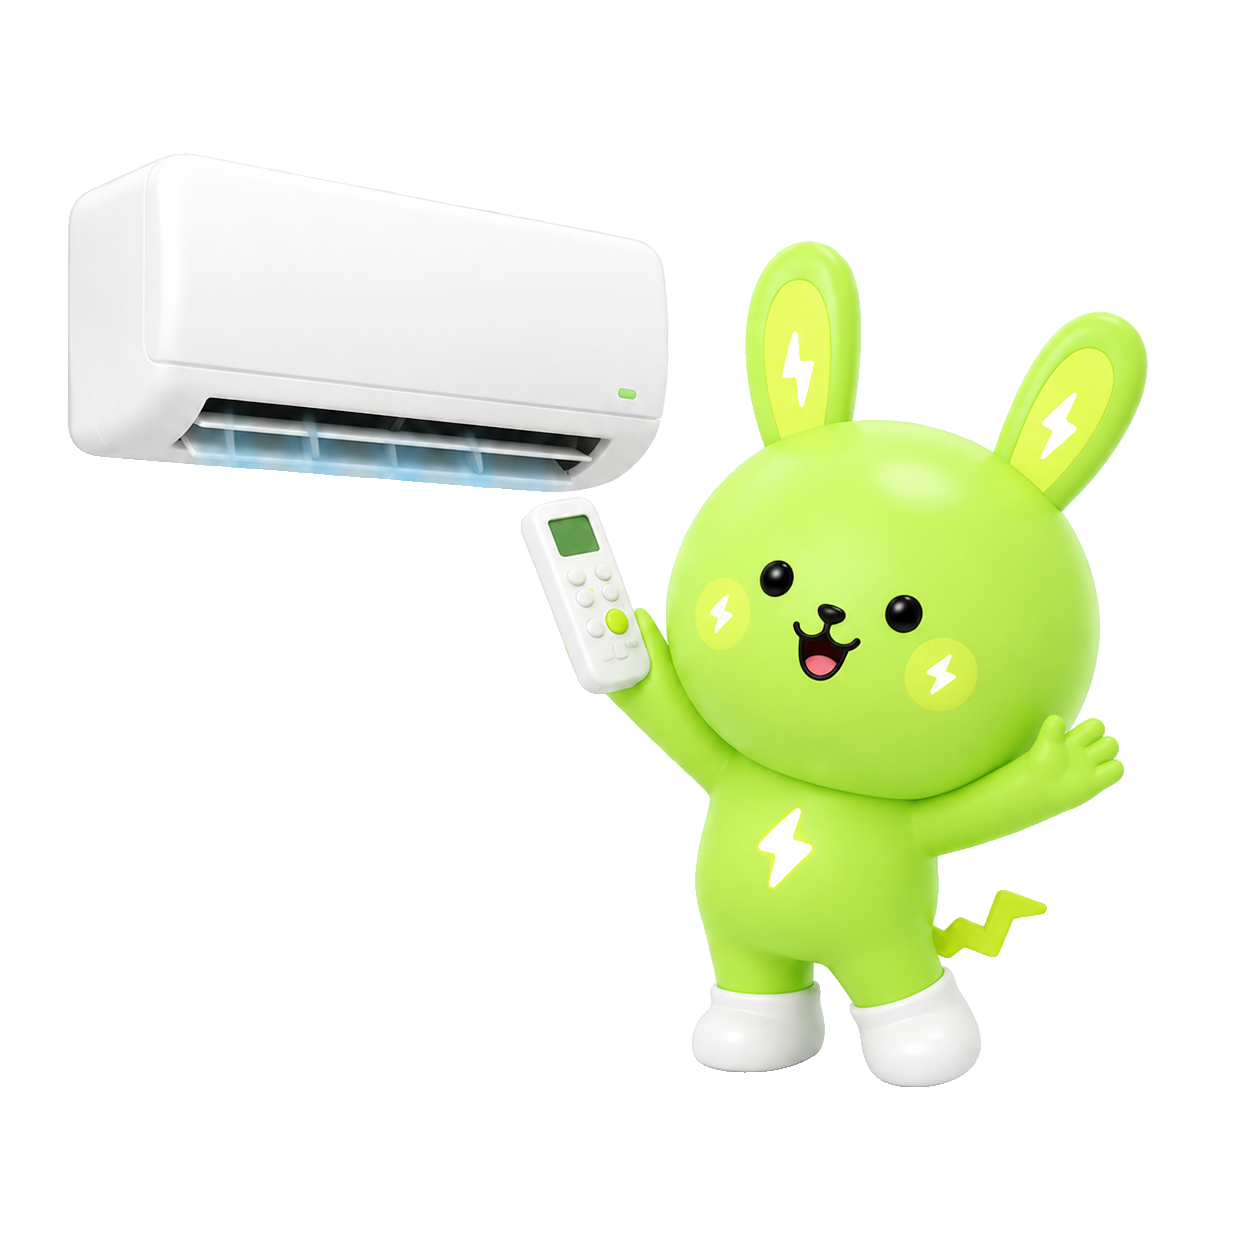
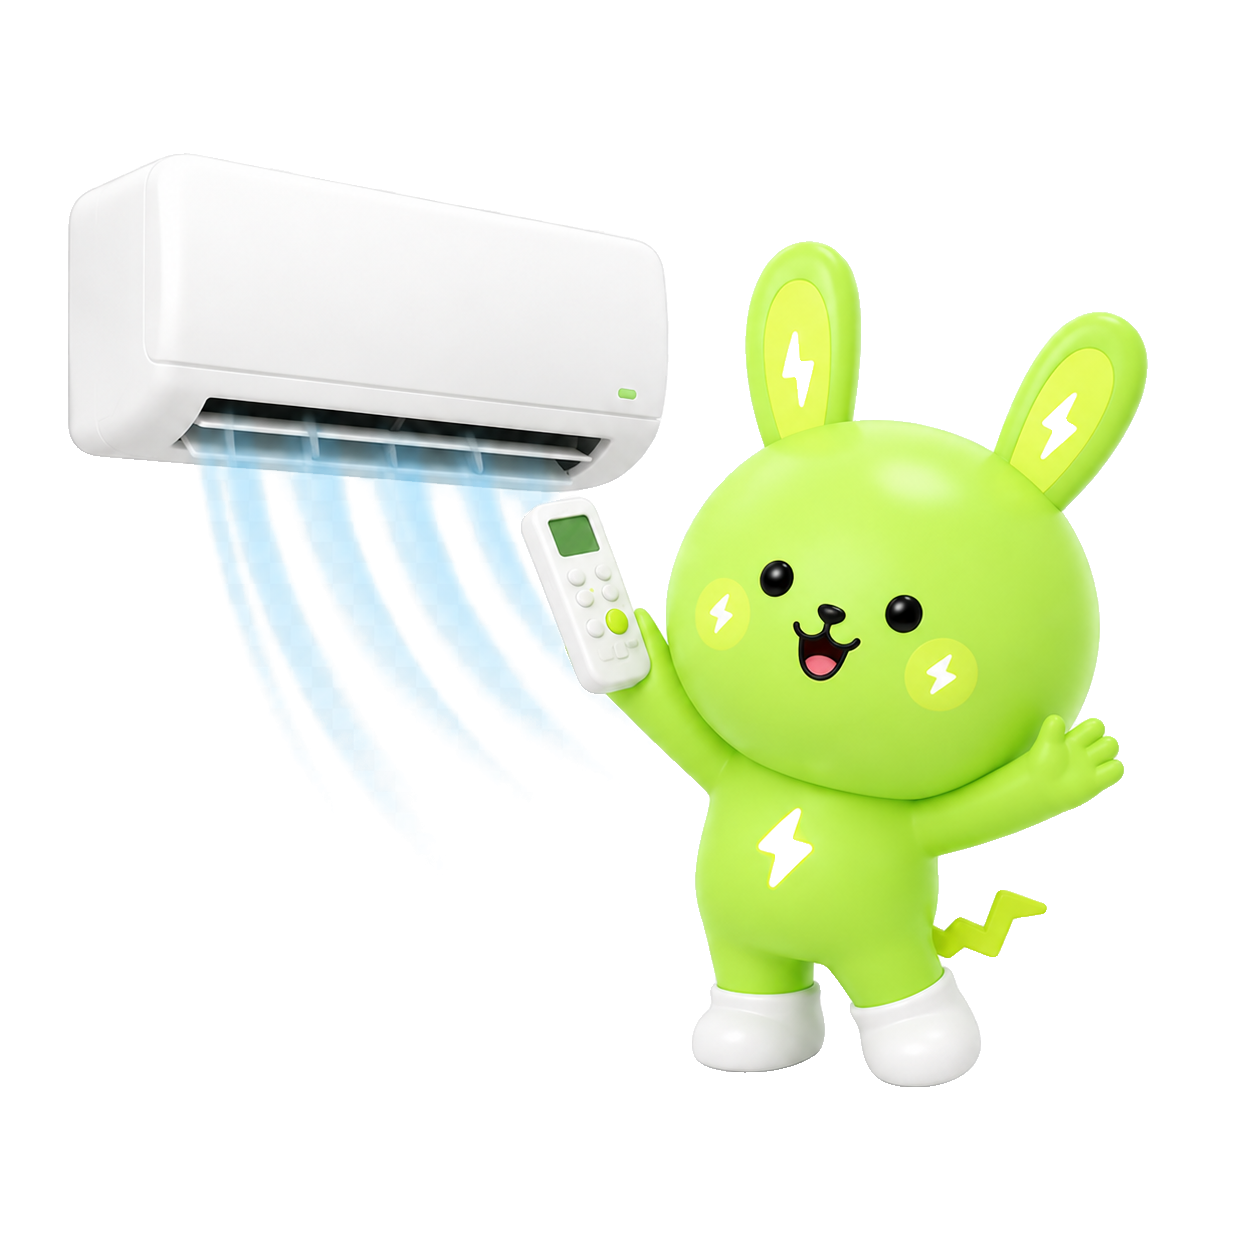
내 가전 카드: 에어컨 바람 복구 + 우측 회색 섹터 분리
- 누끼 때 지워진 파란 에어컨 바람을 원본에서 복구(char-1 제외 5장)
- 캐릭터 영역을 우측 회색 박스 섹터(#E4E7EA)로 분리해 정보 영역과 구분
  (파란 바람이 틸 배경에선 안 보여 회색으로 변경)

Changed region(s): [[0.1555, 0.3732, 0.4665, 0.5909], [0.3421, 0.5598, 0.3732, 0.5909]]

diff --git a/frontend/app/devices/page.tsx b/frontend/app/devices/page.tsx
@@ -91,14 +91,14 @@ export default function DevicesPage() {
                     className="relative block h-[188px] overflow-hidden rounded-[22px] shadow-[0_10px_24px_-10px_rgba(0,0,0,.16)_inset] active:scale-[.995] transition"
                     style={{ background: bg }}
                   >
-                    {/* 우측 캐릭터(에어컨+그린 토끼) — 흰 패널 없이 배경 위 센터링 */}
-                    <div className="absolute right-0 top-0 flex h-full w-[128px] items-center justify-center">
+                    {/* 우측 회색 섹터 — 캐릭터+바람 영역(정보 영역과 구분) */}
+                    <div className="absolute right-0 top-0 flex h-full w-[132px] items-center justify-center bg-[#E4E7EA] shadow-[-2px_0_10px_rgba(0,0,0,.04)]">
                       <Image
                         src={img}
                         alt="내 에어컨 캐릭터"
-                        width={128}
-                        height={128}
-                        className="size-[118px] object-contain drop-shadow-[0_6px_14px_rgba(0,0,0,.12)]"
+                        width={132}
+                        height={132}
+                        className="size-[124px] object-contain drop-shadow-[0_6px_14px_rgba(0,0,0,.10)]"
                       />
                     </div>
 
